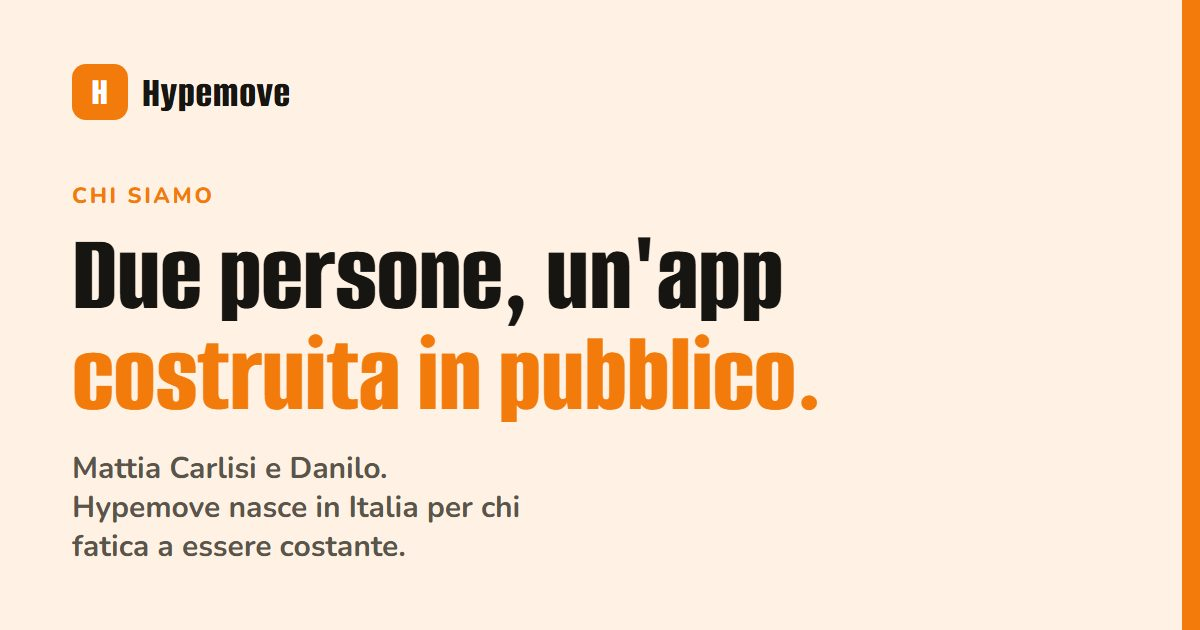
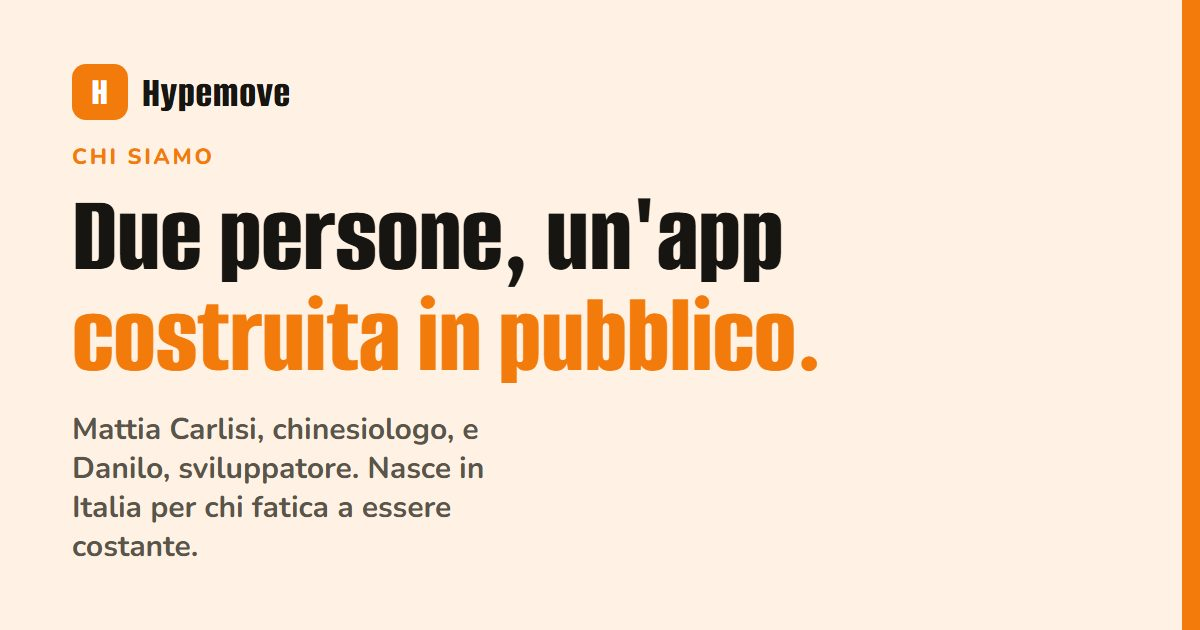
copy(sito): via 'per Android' dall'occhiello, card senza frasi da AI, Chi siamo con Mattia chinesiologo e LinkedIn personale

Changed region(s): [[0.0617, 0.2111, 0.6783, 0.9048]]

diff --git a/src/pages/ChiSiamo.jsx b/src/pages/ChiSiamo.jsx
@@ -1,11 +1,11 @@
 import React from "react";
 import { Layout, PlayButton, Section, SectionHead } from "../components/Layout.jsx";
-import { LINKEDIN_URL, SITE_URL, SUPPORT_EMAIL, breadcrumb } from "../site.js";
+import { MATTIA_LINKEDIN_URL, SITE_URL, SUPPORT_EMAIL, breadcrumb } from "../site.js";
 
 export const meta = {
   title: "Chi siamo: le due persone dietro Hypemove",
   description:
-    "Hypemove è fatta da Mattia Carlisi (founder, prodotto e marketing) e Danilo (sviluppo). Nasce in Italia per chi vuole muoversi di più e non riesce a essere costante.",
+    "Hypemove è fatta da Mattia Carlisi, chinesiologo, e Danilo, sviluppatore. Nasce in Italia per chi vuole muoversi di più e non riesce a essere costante.",
   ogImage: `${SITE_URL}/images/og/chi-siamo.jpg`,
   ogImageAlt: "Chi siamo, Hypemove",
   type: "website",
@@ -23,13 +23,12 @@ export default function ChiSiamo() {
         <SectionHead as="h1" kicker="Chi siamo" title="Due persone, un'app che stiamo costruendo in pubblico." sub="Hypemove non è fatta da una palestra né da un'azienda di fitness. È fatta da due persone in Italia che hanno visto lo stesso problema da vicino: la voglia di muoversi c'è, la costanza no." />
         <div className="mt-10 grid gap-4 md:grid-cols-2">
           {[
-            ["M", "Mattia Carlisi", "Founder. Prodotto e marketing.", "Decide cosa entra nell'app e come ne parliamo. Racconta ogni settimana su LinkedIn cosa funziona e cosa no, numeri compresi.", LINKEDIN_URL, "Hypemove su LinkedIn"],
-            ["D", "Danilo", "Sviluppo.", "Scrive l'app: i workout, il percorso, il coach, i premi. Tutto quello che vedi sullo schermo passa dalle sue mani.", null, null],
-          ].map(([initial, name, role, text, link, linkLabel]) => (
+            ["M", "Mattia Carlisi", "Chinesiologo. Ha creato Hypemove per chi vuole muoversi e non riesce a essere costante: gli allenamenti e il percorso a tappe li scrive lui. Racconta il progetto su LinkedIn, numeri compresi.", MATTIA_LINKEDIN_URL, "Mattia su LinkedIn"],
+            ["D", "Danilo", "Sviluppatore. Costruisce l'app: il percorso, il coach, i premi, tutto quello che tocchi sullo schermo.", null, null],
+          ].map(([initial, name, text, link, linkLabel]) => (
             <div key={name} className="rounded-2xl border-[1.5px] border-rule p-6">
               <span className="inline-flex h-16 w-16 items-center justify-center rounded-full bg-surface font-display text-3xl font-extrabold text-orange" aria-hidden="true">{initial}</span>
               <h2 className="mt-4 font-sans text-2xl font-extrabold">{name}</h2>
-              <div className="text-sm font-bold text-orange">{role}</div>
               <p className="mt-3 text-ink-2">{text}</p>
               {link ? <a href={link} rel="noopener" className="mt-3 inline-block font-bold underline decoration-orange decoration-2 underline-offset-4">{linkLabel}</a> : null}
             </div>
@@ -41,7 +40,7 @@ export default function ChiSiamo() {
         <div className="prose-site mx-auto max-w-prose">
           <h2 className="!mt-0">Perché esiste</h2>
           <p>Quasi tutte le app di fitness sono fatte per chi è già motivato. Funzionano benissimo per due settimane, poi arriva la settimana pesante e salta tutto. Non perché manchi la volontà: perché chiedono troppo rispetto a quello che una persona riesce a dare in una giornata normale.</p>
-          <p>Hypemove parte dal lato opposto. Allenamenti così brevi da starci dentro anche nelle giornate peggiori, un percorso a tappe che ti dice cosa fare oggi senza farti scegliere, e un coach che si adatta invece di spingere. L'obiettivo non è il workout perfetto: è che tu ci sia anche domani.</p>
+          <p>Hypemove parte dal lato opposto. Allenamenti così brevi da starci dentro anche nelle giornate peggiori, un percorso a tappe che ti dice cosa fare oggi senza farti scegliere, e un coach che si adatta invece di spingere. Gli allenamenti li scrive un chinesiologo, non un generatore casuale. L'obiettivo non è il workout perfetto: è che tu ci sia anche domani.</p>
           <h2>Per chi la facciamo</h2>
           <p>Per chi ha una vita piena e imprevedibile. Per chi ha già pagato palestre e abbonamenti mai usati. Per chi non si è mai sentito una persona da palestra e non ha nessuna voglia di diventarlo. Non per atleti, non per chi cerca schede avanzate: per quelli ci sono già ottime app, e nei nostri <a href="/confronti">confronti</a> lo diciamo.</p>
           <h2>Come lavoriamo</h2>

diff --git a/src/pages/Home.jsx b/src/pages/Home.jsx
@@ -34,7 +34,7 @@ export const homeFaqs = [
 export const meta = {
   title: "Hypemove: app fitness per tornare a muoverti, a casa",
   description:
-    "App fitness gratuita per Android: allenamenti guidati da 5 a 15 minuti a casa, percorso a tappe, 400+ esercizi con video e Coach AI. Per chi fatica a essere costante.",
+    "App fitness gratuita: allenamenti guidati da 5 a 15 minuti a casa, percorso a tappe scritto da un chinesiologo, 400+ esercizi con video e Coach AI. Per chi fatica a essere costante.",
   ogImage: `${SITE_URL}/images/og/home.jpg`,
   ogImageAlt: "Hypemove: torna a muoverti, questa volta per davvero",
   type: "website",
@@ -49,18 +49,18 @@ export const meta = {
 const objections = [
   {
     q: "Non ho tempo",
-    title: "Una tappa dura quanto un caffè",
-    text: "Scegli tu tra 5, 10 e 15 minuti. Nei giorni pieni fai la versione corta, e conta lo stesso.",
+    title: "Bastano 5 minuti",
+    text: "Scegli tu tra 5, 10 e 15 minuti. Nei giorni pieni fai la versione corta: conta lo stesso.",
   },
   {
     q: "Ho sempre mollato",
-    title: "Niente da decidere, niente da perdere",
-    text: "Apri l'app e trovi la tappa di oggi. Se salti un giorno non ricominci da zero: conta la settimana, non la perfezione.",
+    title: "Apri l'app e sai cosa fare",
+    text: "Trovi la tappa di oggi, non un catalogo da sfogliare. Se salti un giorno non ricominci da zero: conta la settimana, non la perfezione.",
   },
   {
     q: "Non sono da palestra",
-    title: "Si fa in salotto, come sei",
-    text: "A corpo libero o con quello che hai in casa. Ogni esercizio ha il video, e se hai un dubbio lo chiedi al coach.",
+    title: "Niente palestra, niente da comprare",
+    text: "Ti alleni in salotto, a corpo libero o con quello che hai in casa. Ogni esercizio ha il video, e se hai un dubbio lo chiedi al coach.",
   },
 ];
 
@@ -82,7 +82,7 @@ export default function Home() {
       <section className="px-5 pb-10 pt-8 sm:px-7 sm:pt-12 lg:pb-8 lg:pt-10">
         <div className="mx-auto grid max-w-site items-center gap-8 md:grid-cols-[1.2fr_0.8fr] md:gap-12">
           <div>
-            <div className="kicker">App fitness per Android · Gratis</div>
+            <div className="kicker">App fitness gratuita</div>
             <h1 className="mt-3 text-[3.4rem] leading-[0.9] sm:text-7xl lg:text-[4.75rem]">
               Torna a muoverti.
               <br />
@@ -254,8 +254,8 @@ export default function Home() {
           <SectionHead variant="stack" kicker="Chi c'è dietro" title="Due persone, un'app che stiamo costruendo in pubblico." sub="Hypemove nasce in Italia da un'idea semplice: il movimento deve stare dentro la vita vera, non il contrario." />
           <div className="grid gap-3">
             {[
-              ["M", "Mattia Carlisi", "Founder. Prodotto e marketing. Racconta il percorso su LinkedIn."],
-              ["D", "Danilo", "Sviluppo. Tutto quello che vedi nell'app passa dalle sue mani."],
+              ["M", "Mattia Carlisi", "Chinesiologo. Gli allenamenti e il percorso li scrive lui."],
+              ["D", "Danilo", "Sviluppatore. Costruisce l'app, dal percorso al coach."],
             ].map(([initial, name, role]) => (
               <div key={name} className="flex items-center gap-4 rounded-2xl border-[1.5px] border-rule p-4">
                 <span className="inline-flex h-14 w-14 flex-none items-center justify-center rounded-full bg-surface font-display text-2xl font-extrabold text-orange" aria-hidden="true">{initial}</span>

diff --git a/src/site.js b/src/site.js
@@ -9,6 +9,7 @@ export const PLAY_APP_ID = "pt.app";
 export const SUPPORT_EMAIL = "ciao@hypemove.app";
 export const INSTAGRAM_URL = "https://www.instagram.com/hypemoveapp";
 export const LINKEDIN_URL = "https://www.linkedin.com/company/hypemove";
+export const MATTIA_LINKEDIN_URL = "https://www.linkedin.com/in/mattia-carlisi-095036239/";
 
 // Fatti da tenere identici su sito, scheda Play, ads e social (le AI confrontano le fonti).
 export const FACTS = {
@@ -28,7 +29,7 @@ export const PRICES = {
 
 // La frase che descrive Hypemove: la stessa in home, llms.txt e dati strutturati.
 export const DEFINITION =
-  "Hypemove è un'app di fitness per Android, gratuita, con allenamenti guidati da 5 a 15 minuti da fare a casa, a corpo libero o con quello che hai in casa. Ha un percorso a tappe che avanza con te, un catalogo di oltre 400 esercizi con video, un Coach AI in chat e un sistema di punti, giorni di fila e classifica mensile. È pensata per chi parte da zero o ricomincia dopo tanto tempo e fatica a essere costante, non per atleti o per chi cerca schede avanzate.";
+  "Hypemove è un'app di fitness gratuita (Android, iPhone in arrivo) con allenamenti guidati da 5 a 15 minuti da fare a casa, a corpo libero o con quello che hai in casa. Ha un percorso a tappe che avanza con te, un catalogo di oltre 400 esercizi con video, un Coach AI in chat e un sistema di punti, giorni di fila e classifica mensile. Gli allenamenti li scrive un chinesiologo. È pensata per chi parte da zero o ricomincia dopo tanto tempo e fatica a essere costante, non per atleti o per chi cerca schede avanzate.";
 
 export const DEFAULT_OG_IMAGE = `${SITE_URL}/images/og/home.jpg`;
 
@@ -48,8 +49,8 @@ export function baseGraph() {
       logo: { "@type": "ImageObject", url: `${SITE_URL}/images/logo1.png`, width: 512, height: 512 },
       email: SUPPORT_EMAIL,
       founder: [
-        { "@type": "Person", name: "Mattia Carlisi", jobTitle: "Founder, prodotto e marketing" },
-        { "@type": "Person", name: "Danilo", jobTitle: "Sviluppo" },
+        { "@type": "Person", name: "Mattia Carlisi", jobTitle: "Chinesiologo e founder", sameAs: [MATTIA_LINKEDIN_URL] },
+        { "@type": "Person", name: "Danilo", jobTitle: "Sviluppatore" },
       ],
       areaServed: "IT",
       sameAs: [PLAY_STORE_URL, INSTAGRAM_URL, LINKEDIN_URL],
